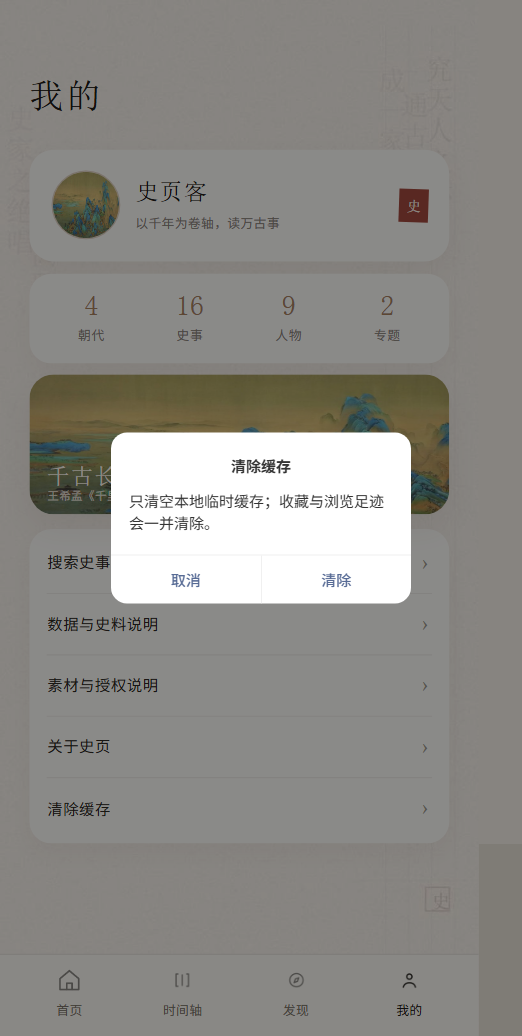
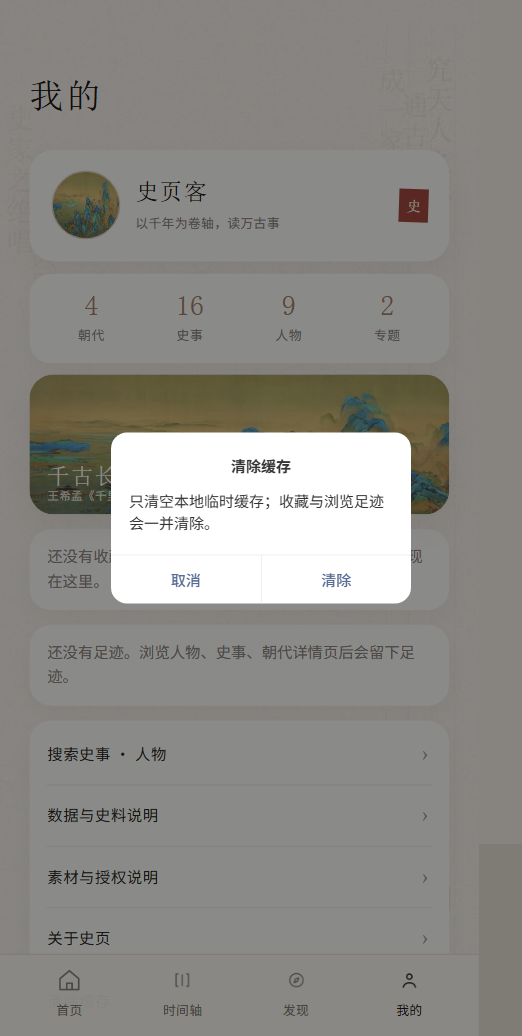
feat: 搜索details全文匹配+我的页收藏/足迹空态引导+日期库补黄海海战（selftest 332断言全过）

diff --git a/ui/preview/_bundle.js b/ui/preview/_bundle.js
@@ -535,6 +535,7 @@ const daily = [
   { month: 5, day: 4, eventId: 'mayfourth-1919' },
   { month: 12, day: 18, eventId: 'reform-1978' },
   { month: 8, day: 29, eventId: 'opium-war-1840' },
+  { month: 9, day: 17, eventId: 'jiawu-1894' },
   { month: 4, day: 17, eventId: 'jiawu-1894' }
 ];
 
@@ -1057,8 +1058,8 @@ Page('project://pages/profile/profile.js', {
 });
 
 });
-__register('/pages/profile/profile.wxml', function (require, module, exports) { module.exports = "<view class=\"page\">\r\n  <image class=\"paper-bg\" src=\"/assets/paper-bg.jpg\" mode=\"aspectFill\"></image>\r\n  <view class=\"screen\">\r\n    <view class=\"topbar\">\r\n      <text class=\"brand\">我的</text>\r\n    </view>\r\n\r\n    <view class=\"head-card\">\r\n      <view class=\"avatar-wrap\">\r\n        <image class=\"avatar\" src=\"/assets/paintings/landscape.jpg\" mode=\"aspectFill\"></image>\r\n      </view>\r\n      <view class=\"head-info\">\r\n        <text class=\"nick\">史页客</text>\r\n        <text class=\"tagline\">以千年为卷轴，读万古事</text>\r\n      </view>\r\n      <text class=\"head-seal\">史</text>\r\n    </view>\r\n\r\n    <view class=\"stats-card\">\r\n      <view class=\"stat\" wx:for=\"{{stats}}\" wx:key=\"key\">\r\n        <text class=\"stat-num\">{{item.value}}</text>\r\n        <text class=\"stat-label\">{{item.label}}</text>\r\n      </view>\r\n    </view>\r\n\r\n    <view class=\"banner-card\" bindtap=\"onAboutBanner\">\r\n      <image class=\"banner-bg\" src=\"/assets/paintings/landscape.jpg\" mode=\"aspectFill\"></image>\r\n      <view class=\"banner-shade\"></view>\r\n      <text class=\"banner-title\">千古长卷</text>\r\n      <text class=\"banner-sub\">王希孟《千里江山图》卷 · 故宫博物院藏</text>\r\n    </view>\r\n\r\n    <view class=\"list-card\" wx:if=\"{{favs.length}}\">\r\n      <view class=\"list-head\">\r\n        <text class=\"list-title\">我的收藏</text>\r\n        <text class=\"list-count\">{{favCount}} 条</text>\r\n      </view>\r\n      <view\r\n        class=\"list-row\"\r\n        wx:for=\"{{favs}}\"\r\n        wx:key=\"id\"\r\n        data-type=\"{{item.type}}\"\r\n        data-id=\"{{item.id}}\"\r\n        bindtap=\"onEntry\"\r\n      >\r\n        <text class=\"row-char {{item.modern ? 'row-modern' : ''}}\">{{item.type === 'person' ? '人' : '事'}}</text>\r\n        <view class=\"row-main\">\r\n          <text class=\"row-title\">{{item.title}}</text>\r\n          <text class=\"row-sub {{item.modern ? 'sub-modern' : ''}}\">{{item.sub}}</text>\r\n        </view>\r\n        <text class=\"row-arrow\">›</text>\r\n      </view>\r\n    </view>\r\n\r\n    <view class=\"list-card\" wx:if=\"{{foots.length}}\">\r\n      <view class=\"list-head\">\r\n        <text class=\"list-title\">浏览足迹</text>\r\n        <text class=\"list-count\">{{footCount}} 条</text>\r\n      </view>\r\n      <view\r\n        class=\"list-row\"\r\n        wx:for=\"{{foots}}\"\r\n        wx:key=\"id\"\r\n        data-type=\"{{item.type}}\"\r\n        data-id=\"{{item.id}}\"\r\n        bindtap=\"onEntry\"\r\n      >\r\n        <text class=\"row-char {{item.modern ? 'row-modern' : ''}}\">{{item.type === 'person' ? '人' : '事'}}</text>\r\n        <view class=\"row-main\">\r\n          <text class=\"row-title\">{{item.title}}</text>\r\n          <text class=\"row-sub {{item.modern ? 'sub-modern' : ''}}\">{{item.sub}}</text>\r\n        </view>\r\n        <text class=\"row-when\">{{item.when}}</text>\r\n      </view>\r\n    </view>\r\n\r\n    <view class=\"menu-card\">\r\n      <view class=\"menu-row\" bindtap=\"onSearch\">\r\n        <text class=\"menu-label\">搜索史事 · 人物</text>\r\n        <text class=\"menu-arrow\">›</text>\r\n      </view>\r\n      <view class=\"menu-row\" bindtap=\"onDataNote\">\r\n        <text class=\"menu-label\">数据与史料说明</text>\r\n        <text class=\"menu-arrow\">›</text>\r\n      </view>\r\n      <view class=\"menu-row\" bindtap=\"onAssetNote\">\r\n        <text class=\"menu-label\">素材与授权说明</text>\r\n        <text class=\"menu-arrow\">›</text>\r\n      </view>\r\n      <view class=\"menu-row\" bindtap=\"onAbout\">\r\n        <text class=\"menu-label\">关于史页</text>\r\n        <text class=\"menu-arrow\">›</text>\r\n      </view>\r\n      <view class=\"menu-row last\" bindtap=\"onClearCache\">\r\n        <text class=\"menu-label\">清除缓存</text>\r\n        <text class=\"menu-arrow\">›</text>\r\n      </view>\r\n    </view>\r\n  </view>\r\n\r\n  <view class=\"tabbar\">\r\n    <view class=\"tab\" data-page=\"home\" bindtap=\"goTab\">\r\n      <image class=\"tab-icon\" src=\"/assets/icons/home.png\" mode=\"aspectFit\"></image>\r\n      <text>首页</text>\r\n    </view>\r\n    <view class=\"tab\" data-page=\"timeline\" bindtap=\"goTab\">\r\n      <image class=\"tab-icon\" src=\"/assets/icons/timeline.png\" mode=\"aspectFit\"></image>\r\n      <text>时间轴</text>\r\n    </view>\r\n    <view class=\"tab\" data-page=\"discover\" bindtap=\"goTab\">\r\n      <image class=\"tab-icon\" src=\"/assets/icons/discover.png\" mode=\"aspectFit\"></image>\r\n      <text>发现</text>\r\n    </view>\r\n    <view class=\"tab active\" data-page=\"profile\" bindtap=\"goTab\">\r\n      <image class=\"tab-icon\" src=\"/assets/icons/profile.png\" mode=\"aspectFit\"></image>\r\n      <text>我的</text>\r\n    </view>\r\n  </view>\r\n</view>\r\n"; });
-__register('/pages/profile/profile.wxss', function (require, module, exports) { module.exports = ".page {\r\n  position: relative;\r\n  min-height: 100vh;\r\n  overflow: hidden;\r\n  background: #F6F1EA;\r\n}\r\n\r\n.paper-bg {\r\n  position: fixed;\r\n  left: 0;\r\n  top: 0;\r\n  z-index: 0;\r\n  width: 100%;\r\n  height: 100%;\r\n  opacity: 0.96;\r\n}\r\n\r\n.screen {\r\n  position: relative;\r\n  z-index: 2;\r\n  padding: 0 46rpx 160rpx;\r\n}\r\n\r\n.topbar {\r\n  margin-top: 88rpx;\r\n  height: 124rpx;\r\n  display: flex;\r\n  align-items: center;\r\n}\r\n\r\n.brand {\r\n  font-family: \"Songti SC\", \"STSong\", \"SimSun\", serif;\r\n  font-size: 54rpx;\r\n  font-weight: 400;\r\n  letter-spacing: 0.08em;\r\n  color: #1F1D19;\r\n}\r\n\r\n/* 用户头卡 */\r\n.head-card {\r\n  margin-top: 22rpx;\r\n  padding: 34rpx;\r\n  border-radius: 38rpx;\r\n  background: #FCFBF8;\r\n  box-shadow: 0 20rpx 46rpx rgba(90, 70, 50, 0.06);\r\n  display: flex;\r\n  align-items: center;\r\n  gap: 24rpx;\r\n}\r\n\r\n.avatar-wrap {\r\n  width: 108rpx;\r\n  height: 108rpx;\r\n  border-radius: 50%;\r\n  overflow: hidden;\r\n  border: 2rpx solid rgba(169, 130, 94, 0.35);\r\n}\r\n\r\n.avatar {\r\n  width: 100%;\r\n  height: 100%;\r\n  display: block;\r\n}\r\n\r\n.head-info {\r\n  flex: 1;\r\n  min-width: 0;\r\n}\r\n\r\n.nick {\r\n  display: block;\r\n  font-family: \"Songti SC\", \"STSong\", \"SimSun\", serif;\r\n  font-size: 36rpx;\r\n  letter-spacing: 0.06em;\r\n  color: #1F1D19;\r\n}\r\n\r\n.tagline {\r\n  display: block;\r\n  margin-top: 10rpx;\r\n  font-size: 20rpx;\r\n  letter-spacing: 0.03em;\r\n  color: #8C857A;\r\n}\r\n\r\n.head-seal {\r\n  width: 46rpx;\r\n  height: 52rpx;\r\n  background: #A34A3E;\r\n  color: #FFF8EF;\r\n  font-family: \"Songti SC\", \"STSong\", \"SimSun\", serif;\r\n  font-size: 22rpx;\r\n  display: flex;\r\n  align-items: center;\r\n  justify-content: center;\r\n  transform: rotate(2deg);\r\n}\r\n\r\n/* 数据统计 */\r\n.stats-card {\r\n  margin-top: 18rpx;\r\n  padding: 30rpx 20rpx;\r\n  border-radius: 34rpx;\r\n  background: #FCFBF8;\r\n  box-shadow: 0 16rpx 34rpx rgba(90, 70, 50, 0.045);\r\n  display: flex;\r\n}\r\n\r\n.stat {\r\n  flex: 1;\r\n  display: flex;\r\n  flex-direction: column;\r\n  align-items: center;\r\n  gap: 8rpx;\r\n}\r\n\r\n.stat-num {\r\n  font-family: \"Songti SC\", \"STSong\", \"SimSun\", serif;\r\n  font-size: 44rpx;\r\n  line-height: 1;\r\n  color: #A9825E;\r\n}\r\n\r\n.stat-label {\r\n  font-size: 20rpx;\r\n  letter-spacing: 0.05em;\r\n  color: #8C857A;\r\n}\r\n\r\n/* 千古长卷横幅 */\r\n.banner-card {\r\n  position: relative;\r\n  height: 220rpx;\r\n  margin-top: 18rpx;\r\n  border-radius: 38rpx;\r\n  overflow: hidden;\r\n  box-shadow: 0 20rpx 46rpx rgba(90, 70, 50, 0.07);\r\n}\r\n\r\n.banner-bg {\r\n  position: absolute;\r\n  left: 0;\r\n  top: 0;\r\n  width: 100%;\r\n  height: 100%;\r\n  display: block;\r\n}\r\n\r\n.banner-shade {\r\n  position: absolute;\r\n  left: 0;\r\n  right: 0;\r\n  bottom: 0;\r\n  background: linear-gradient(180deg, rgba(246, 241, 234, 0) 30%, rgba(31, 27, 22, 0.60));\r\n}\r\n\r\n.banner-title {\r\n  position: absolute;\r\n  left: 28rpx;\r\n  bottom: 44rpx;\r\n  font-family: \"Songti SC\", \"STSong\", \"SimSun\", serif;\r\n  font-size: 34rpx;\r\n  letter-spacing: 0.08em;\r\n  color: #FFF8EF;\r\n}\r\n\r\n.banner-sub {\r\n  position: absolute;\r\n  left: 28rpx;\r\n  bottom: 18rpx;\r\n  font-size: 18rpx;\r\n  letter-spacing: 0.04em;\r\n  color: rgba(255, 248, 239, 0.82);\r\n}\r\n\r\n/* 功能清单 */\r\n.menu-card {\r\n  margin-top: 22rpx;\r\n  border-radius: 34rpx;\r\n  background: #FCFBF8;\r\n  box-shadow: 0 16rpx 34rpx rgba(90, 70, 50, 0.045);\r\n  padding: 6rpx 28rpx;\r\n}\r\n\r\n.menu-row {\r\n  display: flex;\r\n  align-items: center;\r\n  height: 96rpx;\r\n  border-bottom: 1rpx solid rgba(70, 58, 45, 0.07);\r\n}\r\n\r\n.menu-row.last {\r\n  border-bottom: none;\r\n}\r\n\r\n.menu-label {\r\n  flex: 1;\r\n  font-size: 24rpx;\r\n  letter-spacing: 0.04em;\r\n  color: #2C2924;\r\n}\r\n\r\n.menu-hint {\r\n  margin-right: 14rpx;\r\n  font-size: 18rpx;\r\n  letter-spacing: 0.04em;\r\n  color: #A39A8E;\r\n}\r\n\r\n.menu-arrow {\r\n  font-family: \"Songti SC\", \"STSong\", \"SimSun\", serif;\r\n  font-size: 30rpx;\r\n  color: #A39A8E;\r\n}\r\n\r\n/* 收藏 / 足迹列表 */\r\n.list-card {\r\n  margin-top: 22rpx;\r\n  border-radius: 34rpx;\r\n  background: #FCFBF8;\r\n  box-shadow: 0 16rpx 34rpx rgba(90, 70, 50, 0.045);\r\n  padding: 26rpx 28rpx 12rpx;\r\n}\r\n\r\n.list-head {\r\n  display: flex;\r\n  align-items: baseline;\r\n  justify-content: space-between;\r\n  padding: 0 4rpx 14rpx;\r\n}\r\n\r\n.list-title {\r\n  font-family: \"Songti SC\", \"STSong\", \"SimSun\", serif;\r\n  font-size: 27rpx;\r\n  letter-spacing: 0.06em;\r\n  color: #1F1D19;\r\n}\r\n\r\n.list-count {\r\n  font-size: 18rpx;\r\n  letter-spacing: 0.05em;\r\n  color: #A39A8E;\r\n}\r\n\r\n.list-row {\r\n  display: flex;\r\n  align-items: center;\r\n  gap: 20rpx;\r\n  padding: 20rpx 4rpx;\r\n  border-top: 1rpx solid rgba(70, 58, 45, 0.07);\r\n}\r\n\r\n.row-char {\r\n  flex: 0 0 72rpx;\r\n  width: 72rpx;\r\n  height: 72rpx;\r\n  display: flex;\r\n  align-items: center;\r\n  justify-content: center;\r\n  border-radius: 20rpx;\r\n  background: rgba(163, 74, 62, 0.08);\r\n  font-family: \"Songti SC\", \"STSong\", \"SimSun\", serif;\r\n  font-size: 24rpx;\r\n  color: #A34A3E;\r\n}\r\n\r\n.row-char.row-modern {\r\n  background: rgba(126, 154, 154, 0.14);\r\n  color: #5F7E7E;\r\n}\r\n\r\n.row-main {\r\n  flex: 1;\r\n  min-width: 0;\r\n}\r\n\r\n.row-title {\r\n  display: block;\r\n  font-family: \"Songti SC\", \"STSong\", \"SimSun\", serif;\r\n  font-size: 24rpx;\r\n  letter-spacing: 0.04em;\r\n  color: #1F1D19;\r\n}\r\n\r\n.row-sub {\r\n  display: block;\r\n  margin-top: 6rpx;\r\n  font-size: 18rpx;\r\n  letter-spacing: 0.03em;\r\n  color: #8C857A;\r\n}\r\n\r\n.row-sub.sub-modern {\r\n  color: #7E9A9A;\r\n}\r\n\r\n.row-arrow {\r\n  font-family: \"Songti SC\", \"STSong\", \"SimSun\", serif;\r\n  font-size: 30rpx;\r\n  color: #A39A8E;\r\n}\r\n\r\n.row-when {\r\n  flex: 0 0 auto;\r\n  font-size: 17rpx;\r\n  letter-spacing: 0.02em;\r\n  color: #A39A8E;\r\n}\r\n\r\n.tabbar {\r\n  position: fixed;\r\n  left: 0;\r\n  right: 0;\r\n  bottom: 0;\r\n  z-index: 10;\r\n  min-height: 128rpx;\r\n  padding: 16rpx 20rpx 0;\r\n  padding-bottom: constant(safe-area-inset-bottom);\r\n  padding-bottom: env(safe-area-inset-bottom);\r\n  display: flex;\r\n  background: rgba(250, 248, 243, 0.96);\r\n  border-top: 1rpx solid rgba(70, 58, 45, 0.10);\r\n}\r\n\r\n.tab {\r\n  flex: 1;\r\n  display: flex;\r\n  flex-direction: column;\r\n  align-items: center;\r\n  gap: 10rpx;\r\n  font-size: 20rpx;\r\n  letter-spacing: 0.03em;\r\n  color: #7B746A;\r\n}\r\n\r\n.tab-icon {\r\n  width: 44rpx;\r\n  height: 44rpx;\r\n  display: block;\r\n  opacity: 0.52;\r\n}\r\n\r\n.tab.active {\r\n  color: #211E1A;\r\n}\r\n\r\n.tab.active .tab-icon {\r\n  opacity: 1;\r\n}\r\n"; });
+__register('/pages/profile/profile.wxml', function (require, module, exports) { module.exports = "<view class=\"page\">\r\n  <image class=\"paper-bg\" src=\"/assets/paper-bg.jpg\" mode=\"aspectFill\"></image>\r\n  <view class=\"screen\">\r\n    <view class=\"topbar\">\r\n      <text class=\"brand\">我的</text>\r\n    </view>\r\n\r\n    <view class=\"head-card\">\r\n      <view class=\"avatar-wrap\">\r\n        <image class=\"avatar\" src=\"/assets/paintings/landscape.jpg\" mode=\"aspectFill\"></image>\r\n      </view>\r\n      <view class=\"head-info\">\r\n        <text class=\"nick\">史页客</text>\r\n        <text class=\"tagline\">以千年为卷轴，读万古事</text>\r\n      </view>\r\n      <text class=\"head-seal\">史</text>\r\n    </view>\r\n\r\n    <view class=\"stats-card\">\r\n      <view class=\"stat\" wx:for=\"{{stats}}\" wx:key=\"key\">\r\n        <text class=\"stat-num\">{{item.value}}</text>\r\n        <text class=\"stat-label\">{{item.label}}</text>\r\n      </view>\r\n    </view>\r\n\r\n    <view class=\"banner-card\" bindtap=\"onAboutBanner\">\r\n      <image class=\"banner-bg\" src=\"/assets/paintings/landscape.jpg\" mode=\"aspectFill\"></image>\r\n      <view class=\"banner-shade\"></view>\r\n      <text class=\"banner-title\">千古长卷</text>\r\n      <text class=\"banner-sub\">王希孟《千里江山图》卷 · 故宫博物院藏</text>\r\n    </view>\r\n\r\n    <view class=\"list-card hint-card\" wx:if=\"{{!favs.length}}\">\r\n      <text class=\"hint-text\">还没有收藏。在人物、史事详情页点「收藏」，就会出现在这里。</text>\r\n    </view>\r\n    <view class=\"list-card\" wx:if=\"{{favs.length}}\">\r\n      <view class=\"list-head\">\r\n        <text class=\"list-title\">我的收藏</text>\r\n        <text class=\"list-count\">{{favCount}} 条</text>\r\n      </view>\r\n      <view\r\n        class=\"list-row\"\r\n        wx:for=\"{{favs}}\"\r\n        wx:key=\"id\"\r\n        data-type=\"{{item.type}}\"\r\n        data-id=\"{{item.id}}\"\r\n        bindtap=\"onEntry\"\r\n      >\r\n        <text class=\"row-char {{item.modern ? 'row-modern' : ''}}\">{{item.type === 'person' ? '人' : '事'}}</text>\r\n        <view class=\"row-main\">\r\n          <text class=\"row-title\">{{item.title}}</text>\r\n          <text class=\"row-sub {{item.modern ? 'sub-modern' : ''}}\">{{item.sub}}</text>\r\n        </view>\r\n        <text class=\"row-arrow\">›</text>\r\n      </view>\r\n    </view>\r\n\r\n    <view class=\"list-card hint-card\" wx:if=\"{{!foots.length}}\">\r\n      <text class=\"hint-text\">还没有足迹。浏览人物、史事、朝代详情页后会留下足迹。</text>\r\n    </view>\r\n    <view class=\"list-card\" wx:if=\"{{foots.length}}\">\r\n      <view class=\"list-head\">\r\n        <text class=\"list-title\">浏览足迹</text>\r\n        <text class=\"list-count\">{{footCount}} 条</text>\r\n      </view>\r\n      <view\r\n        class=\"list-row\"\r\n        wx:for=\"{{foots}}\"\r\n        wx:key=\"id\"\r\n        data-type=\"{{item.type}}\"\r\n        data-id=\"{{item.id}}\"\r\n        bindtap=\"onEntry\"\r\n      >\r\n        <text class=\"row-char {{item.modern ? 'row-modern' : ''}}\">{{item.type === 'person' ? '人' : '事'}}</text>\r\n        <view class=\"row-main\">\r\n          <text class=\"row-title\">{{item.title}}</text>\r\n          <text class=\"row-sub {{item.modern ? 'sub-modern' : ''}}\">{{item.sub}}</text>\r\n        </view>\r\n        <text class=\"row-when\">{{item.when}}</text>\r\n      </view>\r\n    </view>\r\n\r\n    <view class=\"menu-card\">\r\n      <view class=\"menu-row\" bindtap=\"onSearch\">\r\n        <text class=\"menu-label\">搜索史事 · 人物</text>\r\n        <text class=\"menu-arrow\">›</text>\r\n      </view>\r\n      <view class=\"menu-row\" bindtap=\"onDataNote\">\r\n        <text class=\"menu-label\">数据与史料说明</text>\r\n        <text class=\"menu-arrow\">›</text>\r\n      </view>\r\n      <view class=\"menu-row\" bindtap=\"onAssetNote\">\r\n        <text class=\"menu-label\">素材与授权说明</text>\r\n        <text class=\"menu-arrow\">›</text>\r\n      </view>\r\n      <view class=\"menu-row\" bindtap=\"onAbout\">\r\n        <text class=\"menu-label\">关于史页</text>\r\n        <text class=\"menu-arrow\">›</text>\r\n      </view>\r\n      <view class=\"menu-row last\" bindtap=\"onClearCache\">\r\n        <text class=\"menu-label\">清除缓存</text>\r\n        <text class=\"menu-arrow\">›</text>\r\n      </view>\r\n    </view>\r\n  </view>\r\n\r\n  <view class=\"tabbar\">\r\n    <view class=\"tab\" data-page=\"home\" bindtap=\"goTab\">\r\n      <image class=\"tab-icon\" src=\"/assets/icons/home.png\" mode=\"aspectFit\"></image>\r\n      <text>首页</text>\r\n    </view>\r\n    <view class=\"tab\" data-page=\"timeline\" bindtap=\"goTab\">\r\n      <image class=\"tab-icon\" src=\"/assets/icons/timeline.png\" mode=\"aspectFit\"></image>\r\n      <text>时间轴</text>\r\n    </view>\r\n    <view class=\"tab\" data-page=\"discover\" bindtap=\"goTab\">\r\n      <image class=\"tab-icon\" src=\"/assets/icons/discover.png\" mode=\"aspectFit\"></image>\r\n      <text>发现</text>\r\n    </view>\r\n    <view class=\"tab active\" data-page=\"profile\" bindtap=\"goTab\">\r\n      <image class=\"tab-icon\" src=\"/assets/icons/profile.png\" mode=\"aspectFit\"></image>\r\n      <text>我的</text>\r\n    </view>\r\n  </view>\r\n</view>\r\n"; });
+__register('/pages/profile/profile.wxss', function (require, module, exports) { module.exports = ".page {\r\n  position: relative;\r\n  min-height: 100vh;\r\n  overflow: hidden;\r\n  background: #F6F1EA;\r\n}\r\n\r\n.paper-bg {\r\n  position: fixed;\r\n  left: 0;\r\n  top: 0;\r\n  z-index: 0;\r\n  width: 100%;\r\n  height: 100%;\r\n  opacity: 0.96;\r\n}\r\n\r\n.screen {\r\n  position: relative;\r\n  z-index: 2;\r\n  padding: 0 46rpx 160rpx;\r\n}\r\n\r\n.topbar {\r\n  margin-top: 88rpx;\r\n  height: 124rpx;\r\n  display: flex;\r\n  align-items: center;\r\n}\r\n\r\n.brand {\r\n  font-family: \"Songti SC\", \"STSong\", \"SimSun\", serif;\r\n  font-size: 54rpx;\r\n  font-weight: 400;\r\n  letter-spacing: 0.08em;\r\n  color: #1F1D19;\r\n}\r\n\r\n/* 用户头卡 */\r\n.head-card {\r\n  margin-top: 22rpx;\r\n  padding: 34rpx;\r\n  border-radius: 38rpx;\r\n  background: #FCFBF8;\r\n  box-shadow: 0 20rpx 46rpx rgba(90, 70, 50, 0.06);\r\n  display: flex;\r\n  align-items: center;\r\n  gap: 24rpx;\r\n}\r\n\r\n.avatar-wrap {\r\n  width: 108rpx;\r\n  height: 108rpx;\r\n  border-radius: 50%;\r\n  overflow: hidden;\r\n  border: 2rpx solid rgba(169, 130, 94, 0.35);\r\n}\r\n\r\n.avatar {\r\n  width: 100%;\r\n  height: 100%;\r\n  display: block;\r\n}\r\n\r\n.head-info {\r\n  flex: 1;\r\n  min-width: 0;\r\n}\r\n\r\n.nick {\r\n  display: block;\r\n  font-family: \"Songti SC\", \"STSong\", \"SimSun\", serif;\r\n  font-size: 36rpx;\r\n  letter-spacing: 0.06em;\r\n  color: #1F1D19;\r\n}\r\n\r\n.tagline {\r\n  display: block;\r\n  margin-top: 10rpx;\r\n  font-size: 20rpx;\r\n  letter-spacing: 0.03em;\r\n  color: #8C857A;\r\n}\r\n\r\n.head-seal {\r\n  width: 46rpx;\r\n  height: 52rpx;\r\n  background: #A34A3E;\r\n  color: #FFF8EF;\r\n  font-family: \"Songti SC\", \"STSong\", \"SimSun\", serif;\r\n  font-size: 22rpx;\r\n  display: flex;\r\n  align-items: center;\r\n  justify-content: center;\r\n  transform: rotate(2deg);\r\n}\r\n\r\n/* 数据统计 */\r\n.stats-card {\r\n  margin-top: 18rpx;\r\n  padding: 30rpx 20rpx;\r\n  border-radius: 34rpx;\r\n  background: #FCFBF8;\r\n  box-shadow: 0 16rpx 34rpx rgba(90, 70, 50, 0.045);\r\n  display: flex;\r\n}\r\n\r\n.stat {\r\n  flex: 1;\r\n  display: flex;\r\n  flex-direction: column;\r\n  align-items: center;\r\n  gap: 8rpx;\r\n}\r\n\r\n.stat-num {\r\n  font-family: \"Songti SC\", \"STSong\", \"SimSun\", serif;\r\n  font-size: 44rpx;\r\n  line-height: 1;\r\n  color: #A9825E;\r\n}\r\n\r\n.stat-label {\r\n  font-size: 20rpx;\r\n  letter-spacing: 0.05em;\r\n  color: #8C857A;\r\n}\r\n\r\n/* 千古长卷横幅 */\r\n.banner-card {\r\n  position: relative;\r\n  height: 220rpx;\r\n  margin-top: 18rpx;\r\n  border-radius: 38rpx;\r\n  overflow: hidden;\r\n  box-shadow: 0 20rpx 46rpx rgba(90, 70, 50, 0.07);\r\n}\r\n\r\n.banner-bg {\r\n  position: absolute;\r\n  left: 0;\r\n  top: 0;\r\n  width: 100%;\r\n  height: 100%;\r\n  display: block;\r\n}\r\n\r\n.banner-shade {\r\n  position: absolute;\r\n  left: 0;\r\n  right: 0;\r\n  bottom: 0;\r\n  background: linear-gradient(180deg, rgba(246, 241, 234, 0) 30%, rgba(31, 27, 22, 0.60));\r\n}\r\n\r\n.banner-title {\r\n  position: absolute;\r\n  left: 28rpx;\r\n  bottom: 44rpx;\r\n  font-family: \"Songti SC\", \"STSong\", \"SimSun\", serif;\r\n  font-size: 34rpx;\r\n  letter-spacing: 0.08em;\r\n  color: #FFF8EF;\r\n}\r\n\r\n.banner-sub {\r\n  position: absolute;\r\n  left: 28rpx;\r\n  bottom: 18rpx;\r\n  font-size: 18rpx;\r\n  letter-spacing: 0.04em;\r\n  color: rgba(255, 248, 239, 0.82);\r\n}\r\n\r\n/* 功能清单 */\r\n.menu-card {\r\n  margin-top: 22rpx;\r\n  border-radius: 34rpx;\r\n  background: #FCFBF8;\r\n  box-shadow: 0 16rpx 34rpx rgba(90, 70, 50, 0.045);\r\n  padding: 6rpx 28rpx;\r\n}\r\n\r\n.menu-row {\r\n  display: flex;\r\n  align-items: center;\r\n  height: 96rpx;\r\n  border-bottom: 1rpx solid rgba(70, 58, 45, 0.07);\r\n}\r\n\r\n.menu-row.last {\r\n  border-bottom: none;\r\n}\r\n\r\n.menu-label {\r\n  flex: 1;\r\n  font-size: 24rpx;\r\n  letter-spacing: 0.04em;\r\n  color: #2C2924;\r\n}\r\n\r\n.menu-hint {\r\n  margin-right: 14rpx;\r\n  font-size: 18rpx;\r\n  letter-spacing: 0.04em;\r\n  color: #A39A8E;\r\n}\r\n\r\n.menu-arrow {\r\n  font-family: \"Songti SC\", \"STSong\", \"SimSun\", serif;\r\n  font-size: 30rpx;\r\n  color: #A39A8E;\r\n}\r\n\r\n/* 收藏 / 足迹列表 */\r\n.list-card {\r\n  margin-top: 22rpx;\r\n  border-radius: 34rpx;\r\n  background: #FCFBF8;\r\n  box-shadow: 0 16rpx 34rpx rgba(90, 70, 50, 0.045);\r\n  padding: 26rpx 28rpx 12rpx;\r\n}\r\n\r\n.hint-card {\r\n  padding: 26rpx 28rpx;\r\n}\r\n\r\n.hint-text {\r\n  display: block;\r\n  font-size: 24rpx;\r\n  line-height: 38rpx;\r\n  color: #8C857A;\r\n}\r\n\r\n.list-head {\r\n  display: flex;\r\n  align-items: baseline;\r\n  justify-content: space-between;\r\n  padding: 0 4rpx 14rpx;\r\n}\r\n\r\n.list-title {\r\n  font-family: \"Songti SC\", \"STSong\", \"SimSun\", serif;\r\n  font-size: 27rpx;\r\n  letter-spacing: 0.06em;\r\n  color: #1F1D19;\r\n}\r\n\r\n.list-count {\r\n  font-size: 18rpx;\r\n  letter-spacing: 0.05em;\r\n  color: #A39A8E;\r\n}\r\n\r\n.list-row {\r\n  display: flex;\r\n  align-items: center;\r\n  gap: 20rpx;\r\n  padding: 20rpx 4rpx;\r\n  border-top: 1rpx solid rgba(70, 58, 45, 0.07);\r\n}\r\n\r\n.row-char {\r\n  flex: 0 0 72rpx;\r\n  width: 72rpx;\r\n  height: 72rpx;\r\n  display: flex;\r\n  align-items: center;\r\n  justify-content: center;\r\n  border-radius: 20rpx;\r\n  background: rgba(163, 74, 62, 0.08);\r\n  font-family: \"Songti SC\", \"STSong\", \"SimSun\", serif;\r\n  font-size: 24rpx;\r\n  color: #A34A3E;\r\n}\r\n\r\n.row-char.row-modern {\r\n  background: rgba(126, 154, 154, 0.14);\r\n  color: #5F7E7E;\r\n}\r\n\r\n.row-main {\r\n  flex: 1;\r\n  min-width: 0;\r\n}\r\n\r\n.row-title {\r\n  display: block;\r\n  font-family: \"Songti SC\", \"STSong\", \"SimSun\", serif;\r\n  font-size: 24rpx;\r\n  letter-spacing: 0.04em;\r\n  color: #1F1D19;\r\n}\r\n\r\n.row-sub {\r\n  display: block;\r\n  margin-top: 6rpx;\r\n  font-size: 18rpx;\r\n  letter-spacing: 0.03em;\r\n  color: #8C857A;\r\n}\r\n\r\n.row-sub.sub-modern {\r\n  color: #7E9A9A;\r\n}\r\n\r\n.row-arrow {\r\n  font-family: \"Songti SC\", \"STSong\", \"SimSun\", serif;\r\n  font-size: 30rpx;\r\n  color: #A39A8E;\r\n}\r\n\r\n.row-when {\r\n  flex: 0 0 auto;\r\n  font-size: 17rpx;\r\n  letter-spacing: 0.02em;\r\n  color: #A39A8E;\r\n}\r\n\r\n.tabbar {\r\n  position: fixed;\r\n  left: 0;\r\n  right: 0;\r\n  bottom: 0;\r\n  z-index: 10;\r\n  min-height: 128rpx;\r\n  padding: 16rpx 20rpx 0;\r\n  padding-bottom: constant(safe-area-inset-bottom);\r\n  padding-bottom: env(safe-area-inset-bottom);\r\n  display: flex;\r\n  background: rgba(250, 248, 243, 0.96);\r\n  border-top: 1rpx solid rgba(70, 58, 45, 0.10);\r\n}\r\n\r\n.tab {\r\n  flex: 1;\r\n  display: flex;\r\n  flex-direction: column;\r\n  align-items: center;\r\n  gap: 10rpx;\r\n  font-size: 20rpx;\r\n  letter-spacing: 0.03em;\r\n  color: #7B746A;\r\n}\r\n\r\n.tab-icon {\r\n  width: 44rpx;\r\n  height: 44rpx;\r\n  display: block;\r\n  opacity: 0.52;\r\n}\r\n\r\n.tab.active {\r\n  color: #211E1A;\r\n}\r\n\r\n.tab.active .tab-icon {\r\n  opacity: 1;\r\n}\r\n"; });
 __register('/pages/event/event.js', function (require, module, exports) {
 const history = require('../../data/history.js');
 const store = require('../../utils/store.js');
@@ -1314,7 +1315,7 @@ Page('project://pages/search/search.js', {
     const modern = (era) => (era || '').indexOf('近现') >= 0 || (era || '').indexOf('民国') >= 0;
 
     const persons = history.persons
-      .filter((p) => hit([p.name, p.era, p.roles, p.summary, p.dates]))
+      .filter((p) => hit([p.name, p.era, p.roles, p.summary, p.dates].concat(p.details || [])))
       .map((p) => ({
         id: p.id,
         title: p.name,
@@ -1323,7 +1324,7 @@ Page('project://pages/search/search.js', {
       }));
 
     const events = history.events
-      .filter((e) => hit([e.title, e.era, e.tags, e.desc, e.yearText]))
+      .filter((e) => hit([e.title, e.era, e.tags, e.desc, e.yearText].concat(e.details || [])))
       .map((e) => ({
         id: e.id,
         title: e.title,

diff --git a/tools/selftest.js b/tools/selftest.js
@@ -452,8 +452,8 @@ console.log('== 我的 ==' );
   confirmModal(true);
   eq(storageCleared, clearedBefore + 1, '确认后清缓存');
   p.onShow();
-  eq(p.data.favs.length, 0, '清缓存后收藏清空');
-  eq(p.data.foots.length, 0, '清缓存后足迹清空');
+  eq(p.data.favs.length, 0, '清缓存后收藏清空（空态引导卡显示）');
+  eq(p.data.foots.length, 0, '清缓存后足迹清空（空态引导卡显示）');
 
   tap(p, 'goTab', { page: 'timeline' });
   eq(last('redirectTo').url, '/pages/timeline/timeline', '底部栏 我的→时间轴');
@@ -643,6 +643,7 @@ console.log('== 搜索 ==');
   p.setData({ keyword: '李世民' });
   p.onSearch();
   ok(p.data.results.persons.some((x) => x.id === 'tang-taizong'), '李世民命中人物');
+  ok(p.data.results.events.some((e) => e.id === 'zhenguan-627'), '同轮命中贞观之治（details 全文）');
 
   p.setData({ keyword: '杜甫' });
   p.onSearch();
@@ -651,6 +652,11 @@ console.log('== 搜索 ==');
   p.setData({ keyword: '李鸿章' });
   p.onSearch();
   ok(p.data.results.persons.some((x) => x.id === 'li-hongzhang'), '李鸿章命中人物');
+  ok(p.data.results.events.some((e) => e.id === 'jiawu-1894'), '同轮命中甲午战争（details 全文）');
+
+  p.setData({ keyword: '虎门' });
+  p.onSearch();
+  ok(p.data.results.events.some((e) => e.id === 'opium-war-1840'), '史实词「虎门」命中鸦片战争（details 全文）');
 
   p.setData({ keyword: '1894' });
   p.onSearch();

diff --git a/miniprogram/pages/search/search.js b/miniprogram/pages/search/search.js
@@ -30,7 +30,7 @@ Page({
     const modern = (era) => (era || '').indexOf('近现') >= 0 || (era || '').indexOf('民国') >= 0;
 
     const persons = history.persons
-      .filter((p) => hit([p.name, p.era, p.roles, p.summary, p.dates]))
+      .filter((p) => hit([p.name, p.era, p.roles, p.summary, p.dates].concat(p.details || [])))
       .map((p) => ({
         id: p.id,
         title: p.name,
@@ -39,7 +39,7 @@ Page({
       }));
 
     const events = history.events
-      .filter((e) => hit([e.title, e.era, e.tags, e.desc, e.yearText]))
+      .filter((e) => hit([e.title, e.era, e.tags, e.desc, e.yearText].concat(e.details || [])))
       .map((e) => ({
         id: e.id,
         title: e.title,

diff --git a/miniprogram/data/history.js b/miniprogram/data/history.js
@@ -521,6 +521,7 @@ const daily = [
   { month: 5, day: 4, eventId: 'mayfourth-1919' },
   { month: 12, day: 18, eventId: 'reform-1978' },
   { month: 8, day: 29, eventId: 'opium-war-1840' },
+  { month: 9, day: 17, eventId: 'jiawu-1894' },
   { month: 4, day: 17, eventId: 'jiawu-1894' }
 ];
 

diff --git a/docs/DEVELOPMENT_LOG.md b/docs/DEVELOPMENT_LOG.md
@@ -296,6 +296,15 @@ miniprogram/data/history.js
 
 ---
 
+## 2026-10-20 · 第三轮：搜索 details 全文匹配 + 我的页空态引导 + 日期库补黄海海战
+
+- **搜索**：人物/史事匹配字段加入 `details` 全文——「李世民」同轮命中贞观之治、「李鸿章」同轮命中甲午战争、「虎门」命中鸦片战争；标题前缀契约断言保留。selftest **PASS 332 / FAIL 0**。
+- **我的页**：收藏/足迹为空时不再整卡隐藏，改为浅墨引导卡（「还没有收藏…」「还没有足迹…」），新用户首屏有行动指引。
+- **日期库**：补 9-17（黄海海战）→ 甲午战争，现共 10 组；4-17 马关条约签订日已有。
+- 校验：validate OK 8 pages；bundle 重建、18 张截图重截核对（07 我的空态卡、统计 4/16/9/2 正常）。
+
+---
+
 ## 2026-10-20 · 数据扩充第二轮：唐代三条史事 + 甲午战争 + 三位新人物
 
 **新史事（现共 16 条）**
